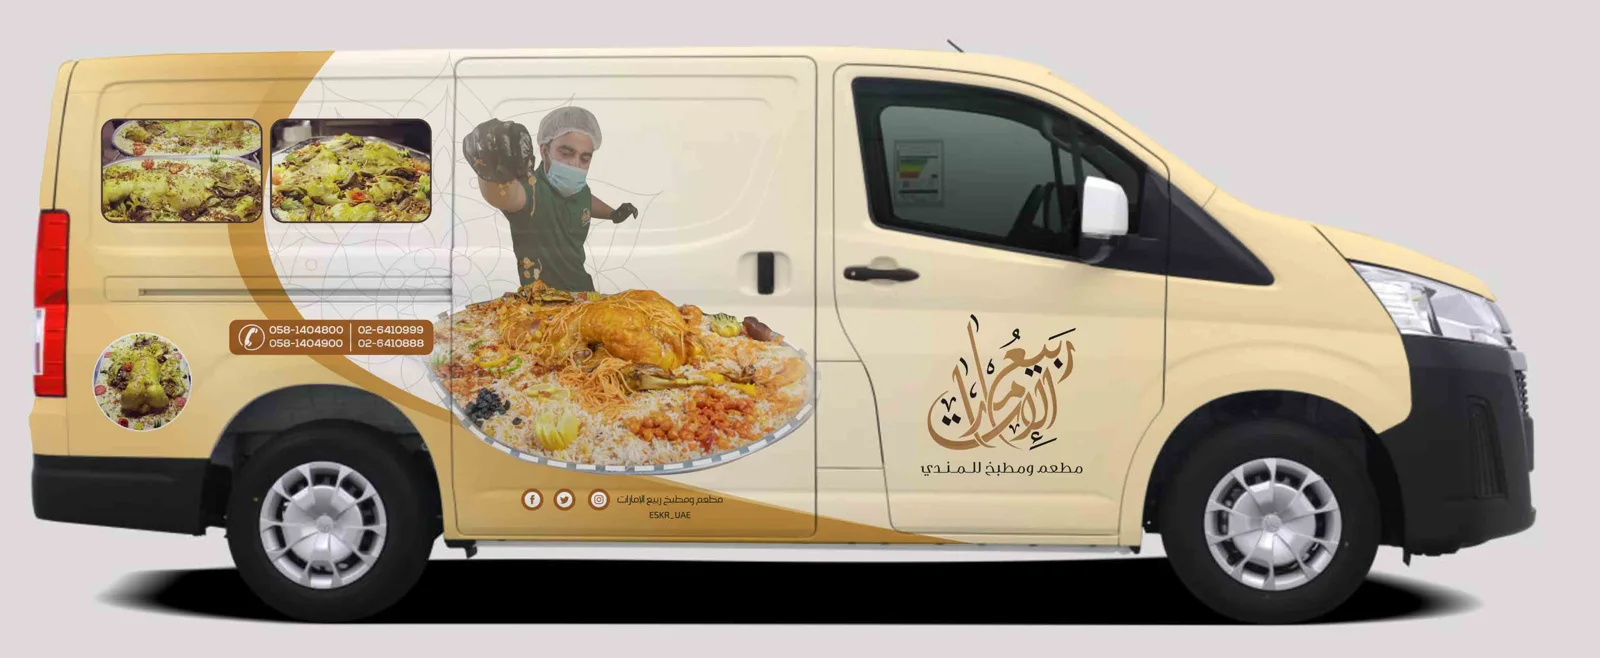
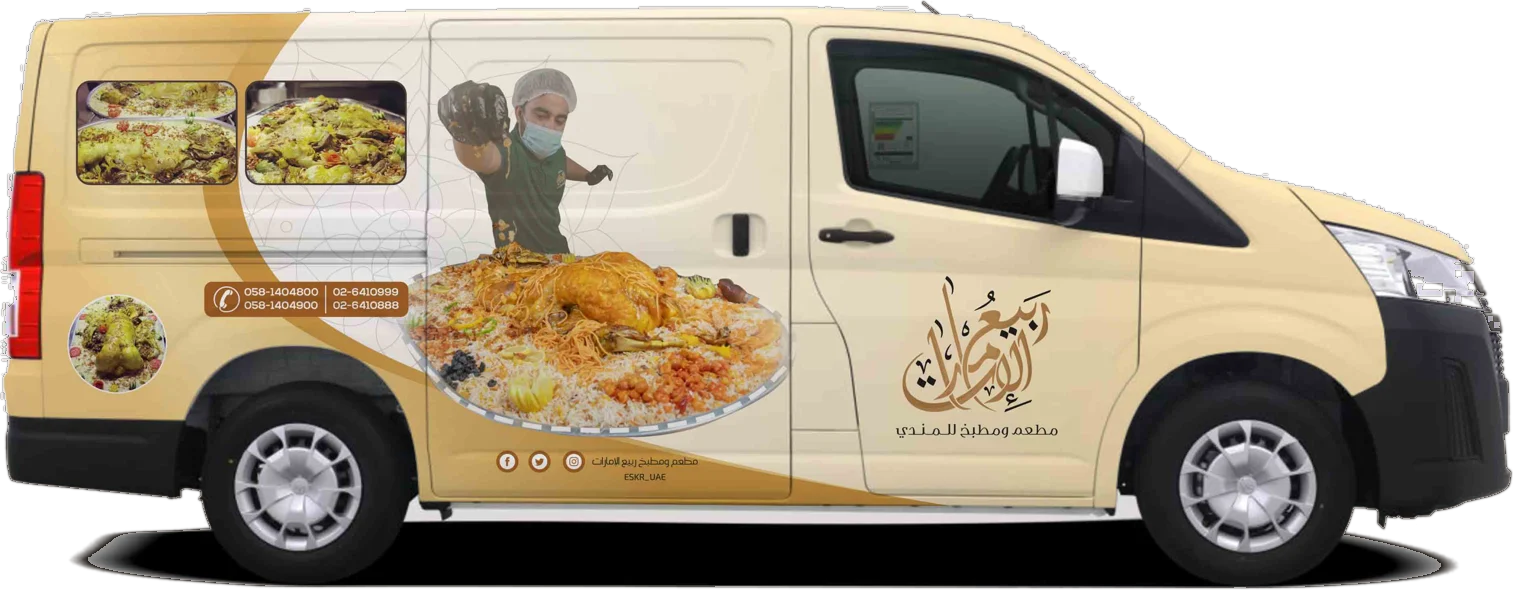
Dish photos, van cut-out, dishes without rice (#9)
* Real dish photos, delivery van without background, dishes without rice

- Photos the owner sent for lamb, chicken, fish, yogurt and cold drinks, on the menu background
- Van photo cut out from its grey background
- Lamb, chicken and fish meals also sold without rice as their own items, 8 AED less

Claude-Session: https://claude.ai/code/session_019R1g5sSomyCRiNiTzWT3Nm

* Cleaner cut-out for the yogurt bowl

Claude-Session: https://claude.ai/code/session_019R1g5sSomyCRiNiTzWT3Nm

* Photo for Mukalkal lamb

Claude-Session: https://claude.ai/code/session_019R1g5sSomyCRiNiTzWT3Nm

---------

diff --git a/website/public/css/site.css b/website/public/css/site.css
@@ -363,6 +363,6 @@ input[type=datetime-local]{font-family:inherit}
 .van{display:grid;grid-template-columns:1fr 1.5fr;gap:48px;align-items:center}
 .van-copy h2{font-size:clamp(1.8rem,3.4vw,2.5rem);margin-top:6px}
 .van-copy p{color:var(--muted);font-size:1.08rem;margin:18px 0 22px}
-.van-ph{margin:0;border-radius:var(--radius);overflow:hidden;background:#DCDCDC;box-shadow:var(--shadow-sm)}
+.van-ph{margin:0}
 .van-ph img{display:block;width:100%;height:auto}
 @media (max-width:860px){.van{grid-template-columns:1fr;gap:22px}.van-ph{order:-1}}

diff --git a/website/database/seeders/DatabaseSeeder.php b/website/database/seeders/DatabaseSeeder.php
@@ -10,6 +10,38 @@ use Illuminate\Support\Facades\Hash;
 
 class DatabaseSeeder extends Seeder
 {
+    /** Real photos the owner sent (2026-11-28), on the same background; they win over the PSD cut-outs. */
+    public const PHOTOS = [
+        'Yogurt Normal' => 'yogurt', 'Yogurt Cucumber' => 'yogurt', 'Cold Drinks' => 'cold-drinks',
+        'Suprem Fish' => 'fish-suprem-plate', 'Hamour Fish' => 'fish-hamour-plate', 'Salmon Fish' => 'fish-salmon-plate',
+        'Madfoon Lamb' => 'lamb-madfoon-plate', 'Madhbi Lamb' => 'lamb-madhbi-plate', 'Zirbyan Lamb' => 'lamb-zirbyan-plate',
+        'Burma Lamb' => 'lamb-burma-plate', 'Head with rice' => 'lamb-head-plate', 'Mukalkal Lamb' => 'lamb-mukalkal-plate',
+        'Mandi Chicken' => 'chicken-mandi-plate', 'Madhbi Chicken' => 'chicken-madhbi-plate', 'Madfoon Chicken' => 'chicken-madfoon-plate',
+    ];
+
+    /** Lamb, chicken and fish meals also sold without rice, 8 AED less (the price of a rice plate). */
+    public const NO_RICE_SECTIONS = ['lamb', 'chicken', 'fish'];
+    public const NO_RICE_SKIP = ['Waslah Lamb', 'Head with rice', 'Harees Lamb', 'Whole Stuffed Chicken'];
+    public const NO_RICE_DISCOUNT = 8;
+
+    /** The dish and, where it is sold both ways, its "without rice" twin right after it. */
+    public static function withNoRice(string $section, array $items): array
+    {
+        $out = [];
+        foreach ($items as $i) {
+            $out[] = $i;
+            if (in_array($section, self::NO_RICE_SECTIONS, true) && empty($i['options']) && $i['price'] !== null
+                && ! in_array($i['name_en'], self::NO_RICE_SKIP, true)) {
+                $out[] = ['name_ar' => $i['name_ar'].' بدون رز', 'name_en' => $i['name_en'].' (no rice)',
+                    'price' => max(0, $i['price'] - self::NO_RICE_DISCOUNT), 'image' => $i['image'] ?? null,
+                    'featured' => false, 'options' => [], 'no_rice' => true,
+                    'description_ar' => $i['description_ar'] ?? null, 'description_en' => $i['description_en'] ?? null,
+                    'photo_of' => $i['name_en']];
+            }
+        }
+        return $out;
+    }
+
     /** Dish images come from the printed-menu PSDs, all on one shared background (images/menu). */
     private function image(?string $slug): string
     {
@@ -33,6 +65,8 @@ class DatabaseSeeder extends Seeder
         $rice = fn (bool $required) => ['نوع الرز', 'Rice type',
             true, $required, array_map(fn ($r) => [$r[0], $r[1], 0], self::RICE)];
         $extras = ['إضافات', 'Extras', true, false, self::EXTRAS];
+
+        if (! empty($item['no_rice'])) return [$extras];
 
         return match (true) {
             $category === 'banquets' && ! str_contains($item['name_ar'], 'بدون أرز') => [
@@ -85,13 +119,13 @@ class DatabaseSeeder extends Seeder
                 // whole lambs (banquets, cooking service) are booked 3 hours ahead, on any day
                 'lead_hours' => in_array($c['slug'], ['banquets', 'cooking-service'], true) ? 3 : 0,
             ]);
-            foreach ($c['items'] as $ii => $i) {
+            foreach (self::withNoRice($c['slug'], $c['items']) as $ii => $i) {
                 $item = $category->items()->updateOrCreate(['name_en' => $i['name_en']], [
                     'name_ar' => $i['name_ar'],
                     'description_ar' => $i['description_ar'] ?? null,
                     'description_en' => $i['description_en'] ?? null,
                     'price' => $i['price'],
-                    'image' => $this->image($i['image']),
+                    'image' => $this->image(self::PHOTOS[$i['photo_of'] ?? $i['name_en']] ?? $i['image']),
                     'is_featured' => $i['featured'],
                     'sort' => $ii,
                 ]);

diff --git a/website/database/migrations/2026_11_28_000500_no_rice_dishes.php b/website/database/migrations/2026_11_28_000500_no_rice_dishes.php
@@ -1,0 +1,60 @@
+<?php
+
+use Database\Seeders\DatabaseSeeder;
+use Illuminate\Database\Migrations\Migration;
+use Illuminate\Support\Facades\DB;
+
+// Lamb, chicken and fish meals are also sold without rice, as their own menu items at 8 AED less
+// (owner's choice, 2026-11-28). Each twin goes right after its dish and gets the extras but no rice choice.
+// Skips a twin that already exists, so it never overwrites what the owner edited.
+return new class extends Migration
+{
+    public function up(): void
+    {
+        $now = now();
+        foreach (DatabaseSeeder::NO_RICE_SECTIONS as $slug) {
+            $cat = DB::table('categories')->where('slug', $slug)->value('id');
+            if (! $cat) continue;
+            $items = DB::table('items')->where('category_id', $cat)->orderBy('sort')->orderBy('id')->get();
+            $order = [];
+            foreach ($items as $it) {
+                if (str_ends_with($it->name_en, ' (no rice)')) continue;
+                $order[] = $it->id;
+                $hasOptions = DB::table('item_options')->where('item_id', $it->id)->exists();
+                if ($it->price === null || $hasOptions || in_array($it->name_en, DatabaseSeeder::NO_RICE_SKIP, true)) continue;
+                $twinName = $it->name_en.' (no rice)';
+                $twin = DB::table('items')->where('name_en', $twinName)->value('id');
+                if (! $twin) {
+                    $twin = DB::table('items')->insertGetId([
+                        'category_id' => $cat, 'name_ar' => $it->name_ar.' بدون رز', 'name_en' => $twinName,
+                        'description_ar' => $it->description_ar, 'description_en' => $it->description_en,
+                        'price' => max(0, (float) $it->price - DatabaseSeeder::NO_RICE_DISCOUNT), 'image' => $it->image,
+                        'is_active' => $it->is_active, 'is_featured' => false, 'branch_ids' => $it->branch_ids,
+                        'sort' => 0, 'created_at' => $now, 'updated_at' => $now,
+                    ]);
+                    // the same extras as the dish (chutney, yogurt, salad), without the rice choice
+                    $extras = DB::table('item_addon_groups')->where('item_id', $it->id)->where('name_en', '!=', 'Rice type')->orderBy('sort')->get();
+                    foreach ($extras as $gi => $g) {
+                        $gid = DB::table('item_addon_groups')->insertGetId([
+                            'item_id' => $twin, 'name_ar' => $g->name_ar, 'name_en' => $g->name_en, 'multiple' => $g->multiple,
+                            'required' => $g->required, 'sort' => $gi, 'created_at' => $now, 'updated_at' => $now,
+                        ]);
+                        foreach (DB::table('item_addons')->where('item_addon_group_id', $g->id)->orderBy('sort')->get() as $a) {
+                            DB::table('item_addons')->insert([
+                                'item_addon_group_id' => $gid, 'name_ar' => $a->name_ar, 'name_en' => $a->name_en,
+                                'price' => $a->price, 'sort' => $a->sort, 'created_at' => $now, 'updated_at' => $now,
+                            ]);
+                        }
+                    }
+                }
+                $order[] = $twin;
+            }
+            foreach ($order as $i => $id) DB::table('items')->where('id', $id)->update(['sort' => $i]);
+        }
+    }
+
+    public function down(): void
+    {
+        DB::table('items')->where('name_en', 'like', '% (no rice)')->delete();
+    }
+};

diff --git a/website/database/migrations/2026_11_28_000400_dish_photos.php b/website/database/migrations/2026_11_28_000400_dish_photos.php
@@ -1,0 +1,21 @@
+<?php
+
+use Database\Seeders\DatabaseSeeder;
+use Illuminate\Database\Migrations\Migration;
+use Illuminate\Support\Facades\DB;
+
+// Use the real photos the owner sent for these dishes and drinks.
+// Only replaces the original printed-menu image, never one uploaded from the admin.
+return new class extends Migration
+{
+    public function up(): void
+    {
+        foreach (DatabaseSeeder::PHOTOS as $nameEn => $slug) {
+            DB::table('items')->where('name_en', $nameEn)
+                ->where(fn ($q) => $q->where('image', 'like', 'images/menu/%')->orWhereNull('image'))
+                ->update(['image' => 'images/menu/'.$slug.'.webp', 'updated_at' => now()]);
+        }
+    }
+
+    public function down(): void {}
+};

diff --git a/website/resources/views/site/home.blade.php b/website/resources/views/site/home.blade.php
@@ -94,7 +94,7 @@
       <p>{{ __('site.van_text') }}</p>
       <a class="btn btn-primary" href="{{ route('menu') }}">{{ __('site.order_now') }}</a>
     </div>
-    <figure class="van-ph"><img src="{{ asset('images/brand/delivery-van.webp') }}" alt="{{ __('site.van_alt') }}" loading="lazy" width="1600" height="658"></figure>
+    <figure class="van-ph"><img src="{{ asset('images/brand/delivery-van.webp') }}" alt="{{ __('site.van_alt') }}" loading="lazy" width="1513" height="590"></figure>
   </div>
 </section>
 
